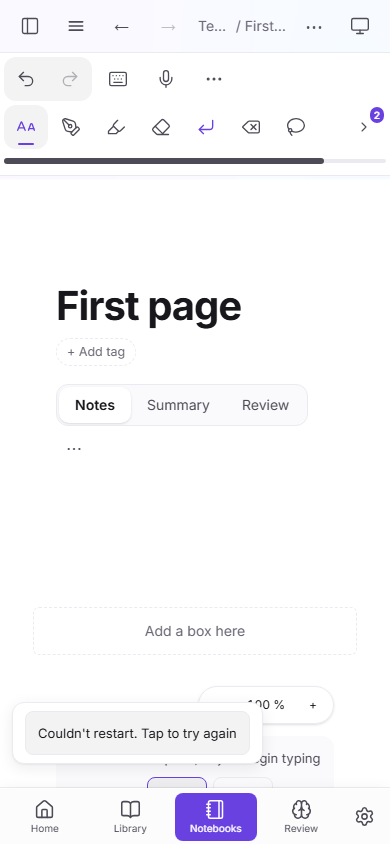
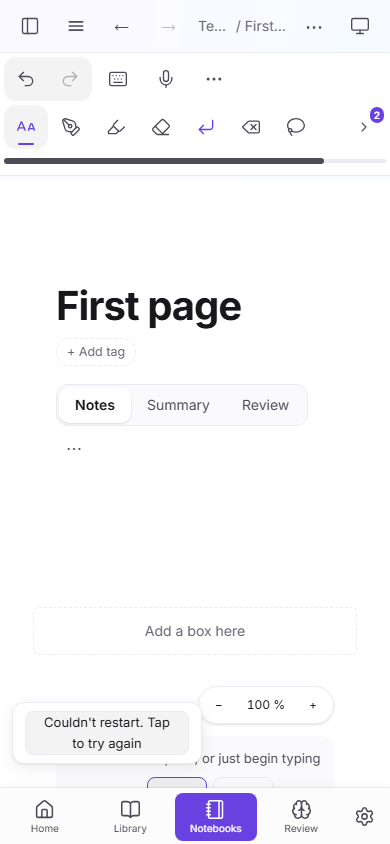
C22 review fixes: keep old files when worker not ready, Restart now during watchdog, button outside live region, phone pill clear of zoom

Changed region(s): [[0.0923, 0.8318, 0.6769, 0.9242]]

diff --git a/src/app/restartNow.ts b/src/app/restartNow.ts
@@ -1,8 +1,9 @@
 // An update restart that always finishes (T27). While a new worker is still
 // installing or waiting, the old files are NOT dropped (the browser queues
 // that behind the install, so no reload would come): wait for the worker,
-// activate it, reload. The last-resort path gets at most FALLBACK_MAX_MS for
-// unregister and cache clear, then reloads anyway.
+// activate it, reload. If it does not finish, only reload (old files kept).
+// Only with no worker at all do unregister and cache clear run (at most
+// FALLBACK_MAX_MS), then the reload.
 
 import { updateStatus } from './updateStatus'
 
@@ -54,6 +55,7 @@ function within<T>(
 function finish(d: RestartDeps, w: WorkerLike): Promise<boolean> {
   return new Promise((resolve) => {
     skipWait = () => resolve(false)
+    again = null
     let asked = false
     const look = () => {
       if (w.state === 'installed' && !asked) {
@@ -70,21 +72,25 @@ function finish(d: RestartDeps, w: WorkerLike): Promise<boolean> {
 
 let running = false
 let skipWait: (() => void) | null = null
+let again: (() => void) | null = null
 let retry: (() => void) | null = null
-/** True from the start of a restart until the page reloads. */
+/** True from the start of a restart until the page reloads (or, if the
+ *  reload is ignored, until the second try also failed: about 8 s later). */
 export const restartRunning = (): boolean => running
 
 /** Tests only: forget a restart that was left running. */
 export function resetRestartForTests(): void {
   running = false
   skipWait = null
+  again = null
   retry = null
 }
 
 /** "Restart now" / "Tap to try again": stops the waiting, or starts again. */
 export function pressRestart(): void {
-  if (running) skipWait?.()
-  else retry?.()
+  if (!running) retry?.()
+  else if (skipWait) skipWait()
+  else again?.()
 }
 
 export async function restartIntoNewFiles(d: RestartDeps): Promise<void> {
@@ -97,23 +103,37 @@ export async function restartIntoNewFiles(d: RestartDeps): Promise<void> {
     if (running) d.report?.('slow')
   }, SLOW_AFTER_MS)
   const reload = async () => {
+    skipWait = null
     await within(d, d.flush(), FALLBACK_MAX_MS)
     d.reload()
-    // Still here after a while: the reload was ignored. Save again, ask with
-    // a fresh address; a second miss is shown, never silent.
-    d.after(async () => {
+    let asked = false
+    // "Restart now" during the wait below: ask with a fresh address at once.
+    const fresh = async () => {
+      if (asked) return
+      asked = true
+      again = null
       await within(d, d.flush(), FALLBACK_MAX_MS)
       d.reloadFresh()
       d.after(() => {
         running = false
         d.report?.('failed')
       }, WATCHDOG_MS)
-    }, WATCHDOG_MS)
+    }
+    again = () => void fresh()
+    // Still here after a while: the reload was ignored. Save again, ask with
+    // a fresh address; a second miss is shown, never silent.
+    d.after(() => void fresh(), WATCHDOG_MS)
   }
   try {
     const reg = await within(d, d.getRegistration(), FALLBACK_MAX_MS)
     const w = reg?.installing ?? reg?.waiting
-    if (w && (await finish(d, w))) return await reload()
+    if (w) {
+      // Timeout or "Restart now" with the worker unfinished: only reload. The
+      // old worker keeps serving the old version (works offline); the update
+      // is tried again next time. The old files are never dropped here.
+      await finish(d, w)
+      return await reload()
+    }
     await within(d, d.clearOld(), FALLBACK_MAX_MS)
   } catch {
     // Restart anyway.

diff --git a/src/app/UpdatePill.tsx b/src/app/UpdatePill.tsx
@@ -59,25 +59,26 @@ export default function UpdatePill() {
     s.phase === 'downloading' && s.total
       ? Math.min(100, ((s.loaded ?? 0) / s.total) * 100)
       : null
+  const showBtn = s.phase === 'updating' && !!s.restart
+  const failed = s.restart === 'failed'
   return (
     <div
-      role="status"
-      aria-live="polite"
       data-chrome
       data-update-pill
-      className={`${s.restart ? 'pointer-events-auto' : 'pointer-events-none'} fixed bottom-16 left-3 z-40 max-w-[min(320px,calc(100vw-24px))] rounded-xl border border-line bg-surface-3 px-3 py-2 text-[13px] text-ink shadow-[var(--elev-2)] phone:bottom-20`}
+      className={`${s.restart ? 'pointer-events-auto' : 'pointer-events-none'} fixed bottom-16 left-3 z-40 max-w-[min(320px,calc(100vw-24px))] rounded-xl border border-line bg-surface-3 px-3 py-2 text-[13px] text-ink shadow-[var(--elev-2)] phone:bottom-20 phone:max-w-[190px]`}
     >
-      {s.restart !== 'failed' && <span>{text}</span>}
-      {s.phase === 'updating' && s.restart && (
+      {/* The live region holds the words only, so the button is not announced as a status. */}
+      <div role="status" aria-live="polite">
+        {failed ? <span className="sr-only">{text}</span> : <span>{text}</span>}
+      </div>
+      {showBtn && (
         <button
           type="button"
           data-restart-now
           onClick={pressRestart}
-          className={`${s.restart === 'failed' ? '' : 'mt-2 '}flex min-h-11 w-full items-center justify-center rounded-lg border border-line px-3 text-[13px] hover:bg-hover`}
+          className={`${failed ? '' : 'mt-2 '}flex min-h-11 w-full items-center justify-center rounded-lg border border-line px-3 text-[13px] hover:bg-hover`}
         >
-          {s.restart === 'failed'
-            ? t('upd.restartFailed')
-            : t('upd.restartNow')}
+          {failed ? t('upd.restartFailed') : t('upd.restartNow')}
         </button>
       )}
       {pct !== null && (

diff --git a/src/app/restartNow.test.ts b/src/app/restartNow.test.ts
@@ -296,4 +296,48 @@ describe('an update restart always finishes (T27)', () => {
     expect(reloadFresh).toHaveBeenCalledTimes(1)
     await c.advance(WATCHDOG_MS)
   })
+
+  it('C22: a worker that never activates, Restart now tapped: the old files are kept (clearOld not called)', async () => {
+    const c = clock()
+    const w = fakeWorker('installing')
+    const clearOld = vi.fn(async () => {})
+    const { d, reload } = deps(c, {
+      clearOld,
+      getRegistration: async () => ({ installing: w, waiting: null }),
+    })
+    void restartIntoNewFiles(d)
+    await c.advance(SLOW_AFTER_MS + 1)
+    pressRestart()
+    await c.advance(10)
+    expect(reload).toHaveBeenCalledTimes(1)
+    expect(clearOld).not.toHaveBeenCalled()
+    await c.advance(WATCHDOG_MS * 3)
+  })
+
+  it('C22: the 15 s timeout with a worker still installing keeps the old files too', async () => {
+    const c = clock()
+    const w = fakeWorker('installing')
+    const clearOld = vi.fn(async () => {})
+    const { d, reload } = deps(c, {
+      clearOld,
+      getRegistration: async () => ({ installing: w, waiting: null }),
+    })
+    void restartIntoNewFiles(d)
+    await c.advance(WORKER_WAIT_MAX_MS + 10)
+    expect(reload).toHaveBeenCalledTimes(1)
+    expect(clearOld).not.toHaveBeenCalled()
+    await c.advance(WATCHDOG_MS * 3)
+  })
+
+  it('C22: Restart now tapped while the reload watchdog runs asks again at once', async () => {
+    const c = clock()
+    const { d, reload, reloadFresh } = deps(c, {})
+    void restartIntoNewFiles(d)
+    await c.advance(100)
+    expect(reload).toHaveBeenCalledTimes(1)
+    pressRestart()
+    await c.advance(100)
+    expect(reloadFresh).toHaveBeenCalledTimes(1)
+    await c.advance(WATCHDOG_MS * 3)
+  })
 })

diff --git a/docs/CHANGELOG.md b/docs/CHANGELOG.md
@@ -2,6 +2,12 @@
 
 Current phase only. Older entries are in [ARCHIVE.md](ARCHIVE.md).
 
+### 16 Nov 2026: C22 update restart keeps the old files when the new worker is not ready (review fixes)
+
+- What: on the 15 s limit or "Restart now" with a new worker still installing, the restart only reloads (old worker and saved copies stay, so the app opens offline and the update is tried next time). The old files are cleared only when there is no worker at all. "Restart now" now also works during the 8 s check after a reload. The button sits outside the announced status text. On a phone the notice is narrower so it no longer covers the zoom "-" button.
+- Why: review of ead8983b; clearing the old files and then failing to reload left the app unable to open offline (spec item 4: never block the app).
+- Files: src/app/restartNow.ts, UpdatePill.tsx; test src/app/restartNow.test.ts (3 new).
+
 ### 16 Nov 2026: C14/C4 taps timed by event time stamps; a tap is told by its whole path (review fixes)
 
 - What: every tap time in the app is now the event's own time stamp (`stampOf` in src/app/tapTiming.ts): text taps, the ink layer's double tap, the Pencil guard and the scribble mark. Switch on, taps exactly 500 ms apart still add up. The Pencil guard counts a press as a tap by the whole path of the tip (up to 16 px, moves under 2 px are sensor noise), not by the distance from start to end. The C14 tests now cover taps of 150 to 250 ms and gaps of 400 to 500 ms and need all 50 runs to select; a run the PC delivered late is repeated (at most 10), never excused.
